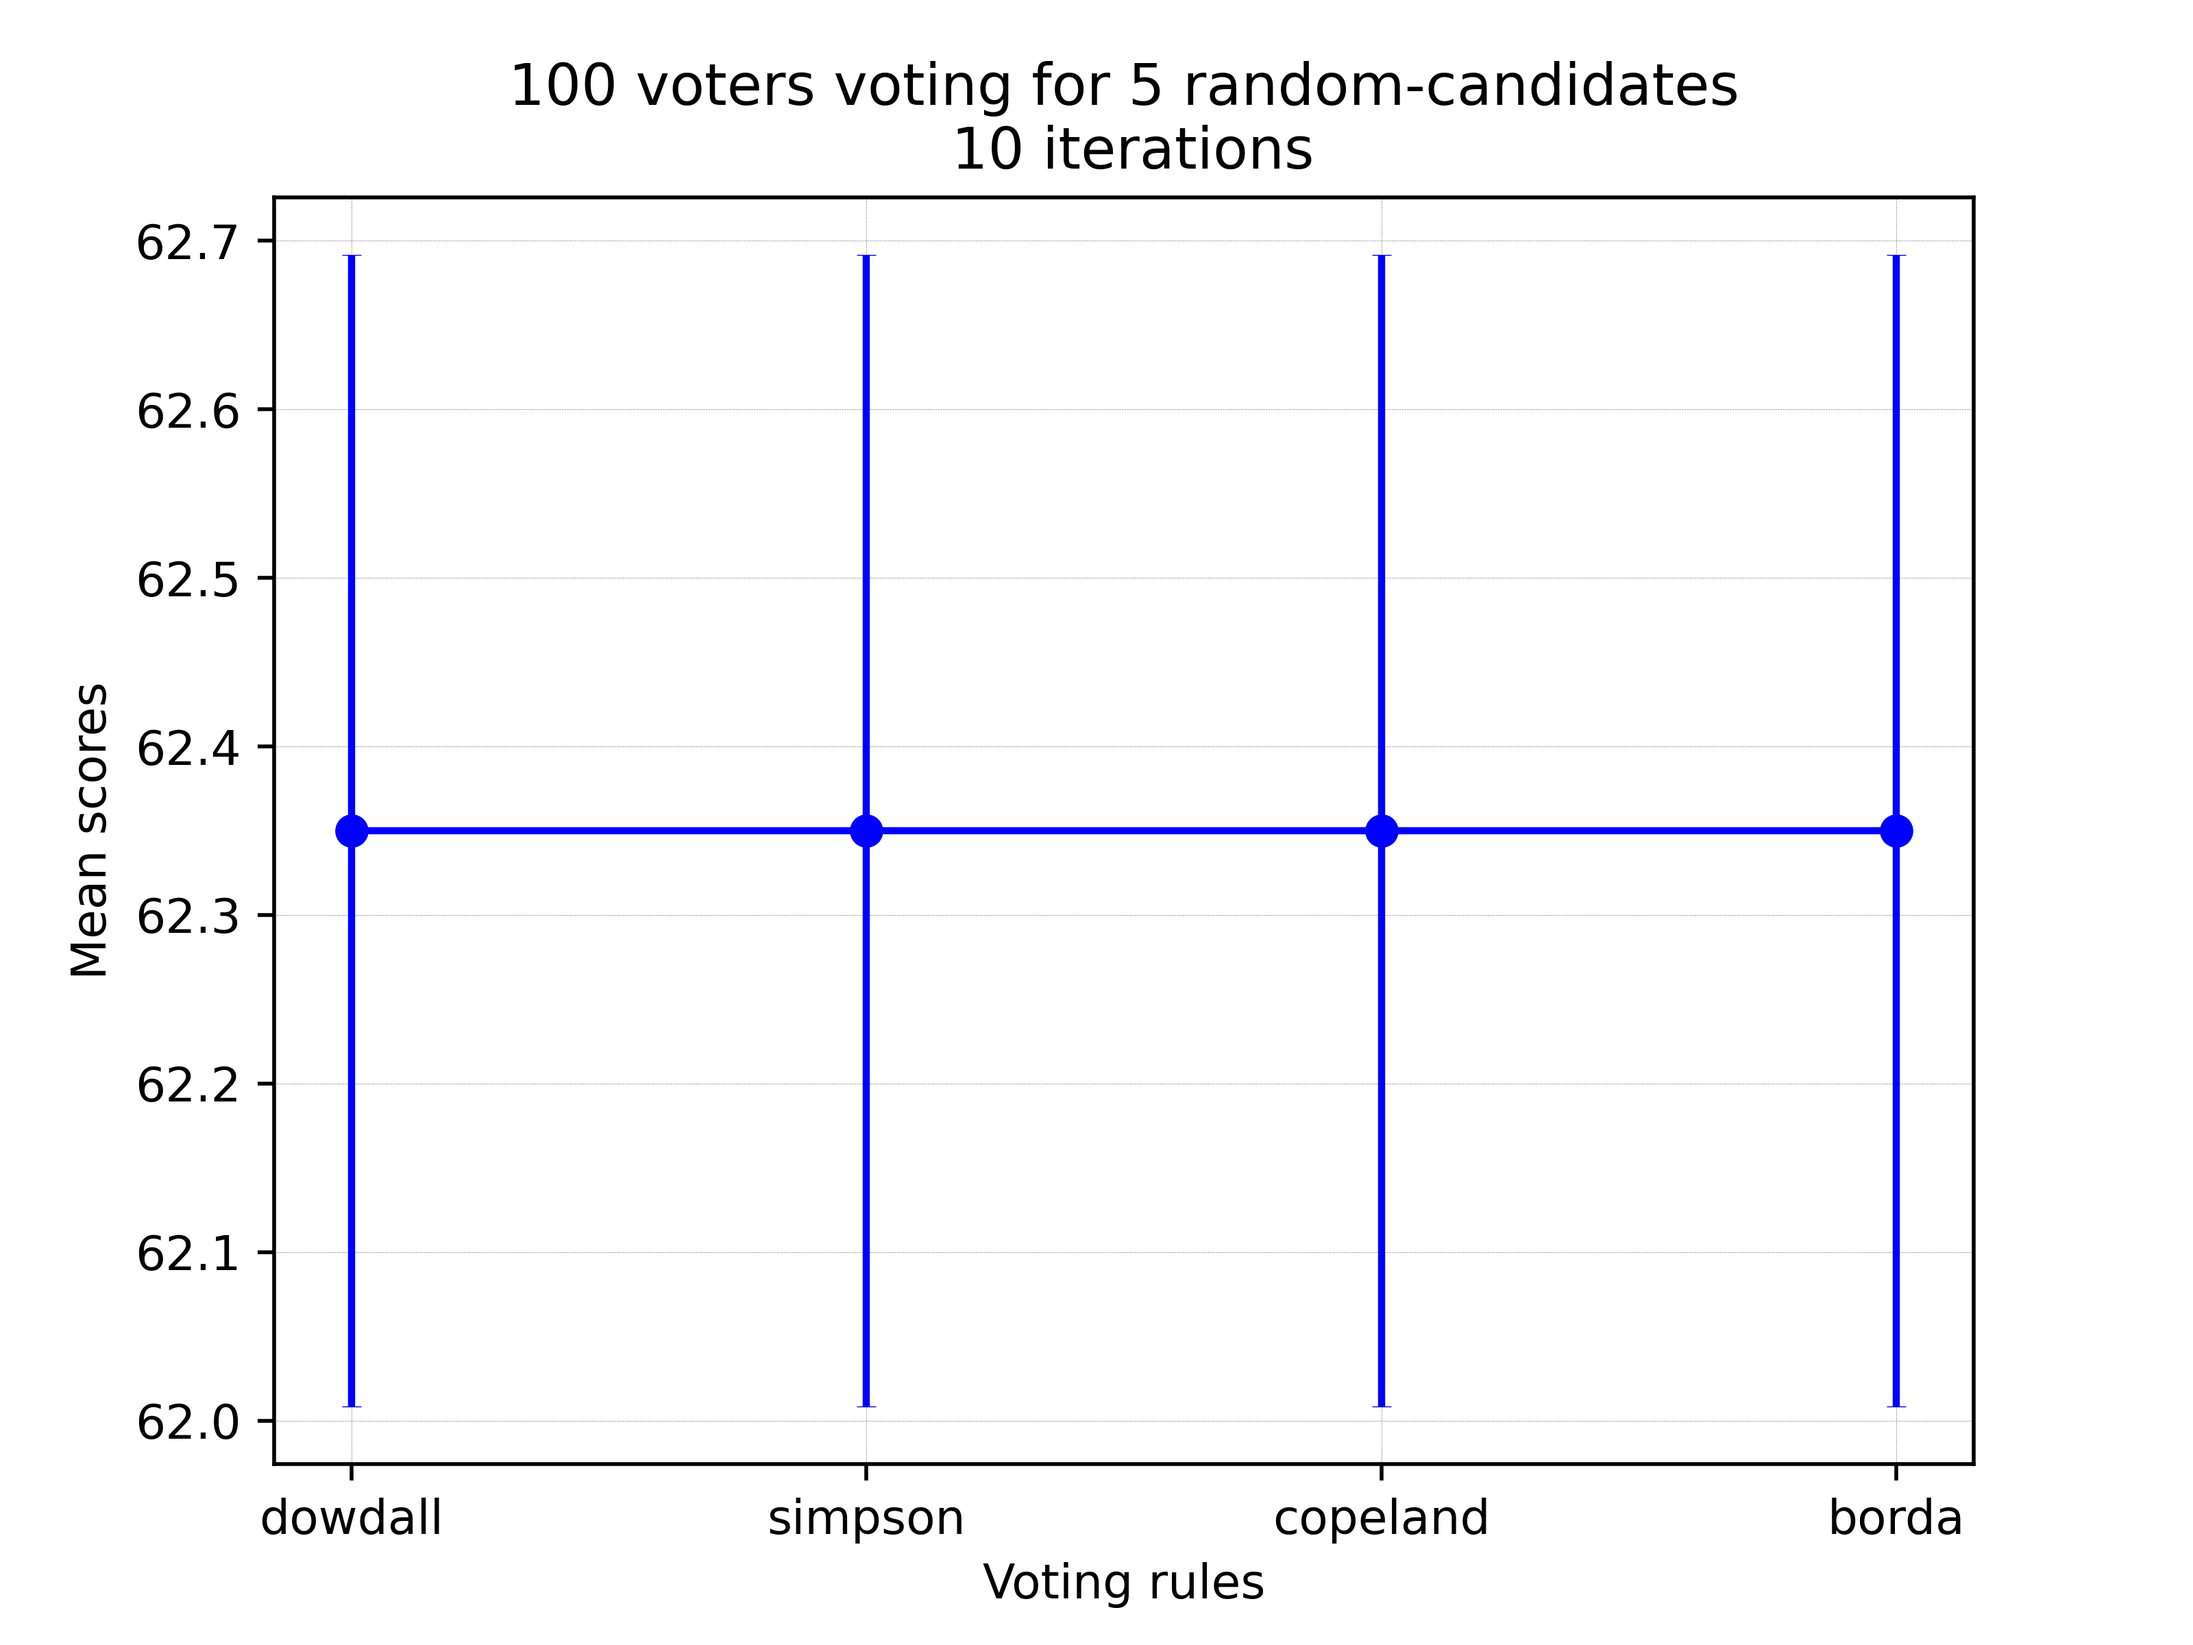
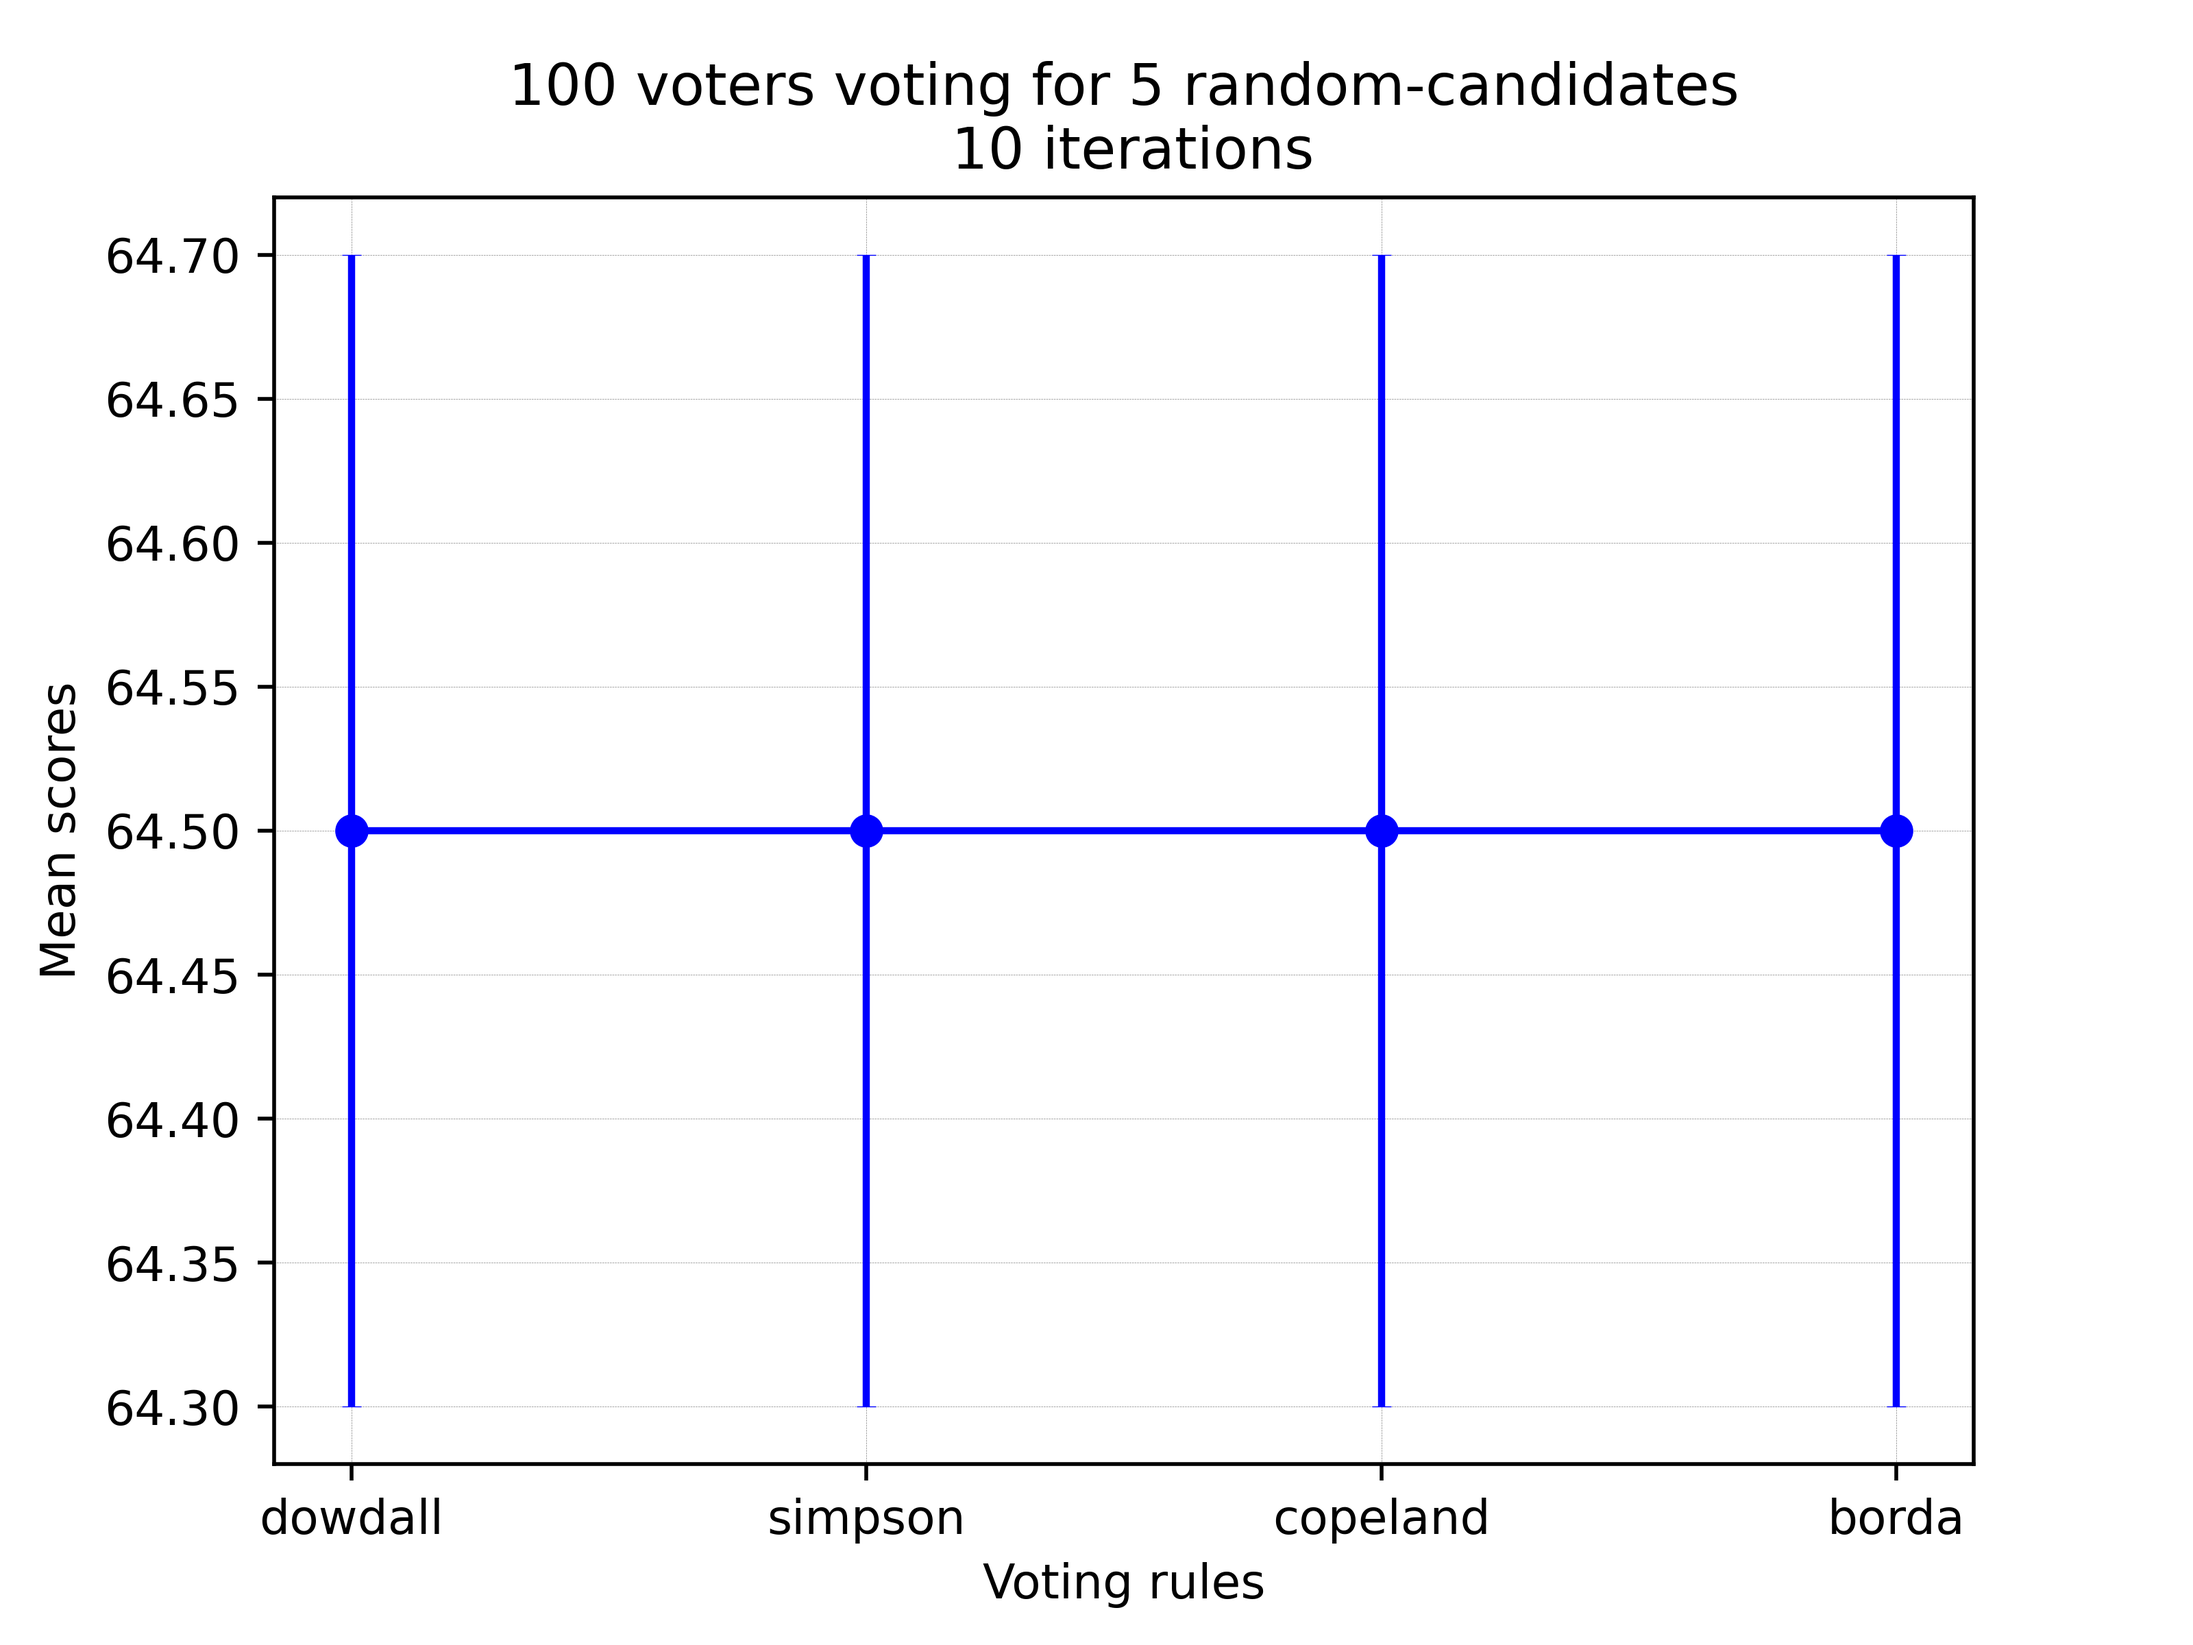
Add files via upload

diff --git a/run.py b/run.py
@@ -35,7 +35,7 @@ def evaluate_voting_rules(num_candidates, num_voters, voters_model="random", ver
         alpha = (1.1, 2.5, 3.8, 2.1, 1.3)
         ballots = generate_multinomial_dirichlet_votes(alpha, num_voters, num_candidates)
     elif voters_model == "gaussian":
-        mu, stdv = 4, 10 # Depends on 'num_voters'
+        mu, stdv = 2, 1 # Depends on 'num_voters'
         ballots = generate_gaussian_votes(mu, stdv, num_voters, num_candidates)
     elif voters_model == "random":
         ballots = generate_random_votes(num_voters, num_candidates)
@@ -51,7 +51,7 @@ def evaluate_voting_rules(num_candidates, num_voters, voters_model="random", ver
                 profile.simpson,
                 profile.copeland,
                 profile.borda,
-                profile.my_new_borda
+                #profile.my_new_borda
             ]
     # Generating results
     result = {}
@@ -60,27 +60,28 @@ def evaluate_voting_rules(num_candidates, num_voters, voters_model="random", ver
         ranking = profile.ranking(rule)
         elected_candidates = list(map(lambda x: x[0], ranking))
 
-        print ("Ranking based on '{}': {}, yielding: {}".format(rule_name, ranking, elected_candidates))
-        print ("======================================================================================================")
+        print ("Ranking based on '{}' gives {} with winners {}".format(rule_name, ranking, elected_candidates))
+        print ("=====================================================================================")
 
-        U, UU = 0., 0.
+        U, Un = 0., 0.
+        print ("Counts \t Ballot \t Utility of first")
         for counts, ballot in profile.pairs:
             # Utility of the ballot given elected_candidates, multipled by its counts
-            u, uu = voter_subjective_utility_for_elected_candidate(elected_candidates, ballot)
-            print (counts, ballot, u)
+            u, un = voter_subjective_utility_for_elected_candidate(elected_candidates, ballot)
+            print ("%s \t %s \t %s" % (counts, ballot, u))
             U += counts * u
-            UU += counts * uu
+            Un += counts * un
         print ("Total : ", U)
-        result[rule.__name__] = {'top' : U, 'topn' : UU}
+        result[rule.__name__] = {'top' : U, 'topn' : Un}
     return result
 
 def main():
     parser = argparse.ArgumentParser()
-    parser.add_argument("num_candidates", type=int, help="number of candidates")
-    parser.add_argument("num_voters", type=int, help="number of voters")
-    parser.add_argument("num_iterations", type=int, help="number of iterations")
-    parser.add_argument("voters_model", type=str, help="models for the generation of voters, either \"random\" or \"multinomial_dirichlet\"")
-    parser.add_argument("-v", "--verbose", action="store_true", help="increase output verbosity")
+    parser.add_argument("num_candidates", type=int, help="Number of candidates")
+    parser.add_argument("num_voters", type=int, help="Number of voters")
+    parser.add_argument("num_iterations", type=int, help="Number of iterations")
+    parser.add_argument("voters_model", type=str, help="Model for the generation of voters, either \"random\" or \"multinomial_dirichlet\"")
+    parser.add_argument("-v", "--verbose", action="store_true", help="Increases output verbosity")
     args = parser.parse_args()
 
     results = {}

diff --git a/models.py b/models.py
@@ -1,6 +1,7 @@
 """
 Voting Models
 Generatation of the ballots of the voters according to different generative models.
+Results are probaiblity distributions over votes
 """
 
 import random
@@ -40,8 +41,17 @@ def generate_gaussian_votes(mu, stdv, number_voters, number_candidates, plot_sav
     prob /= prob.sum()
     dist = number_voters * prob
     dist = np.array(list(map(int, dist)))
+
     # Remove rankings with 0 occurence
     ballots = [(dist[i], list(V[i])) for i,_ in enumerate(x) if dist[i]]
+
+    print ("> ", dist)
+    print ("number_candidates = ", number_candidates)
+
+    print ("ballots:\n", ballots)
+    exit()
+
+
     if plot_save:
         fig, ax = plt.subplots()
         dist_non_null_index = np.array([i for i,x in enumerate(dist) if x])
